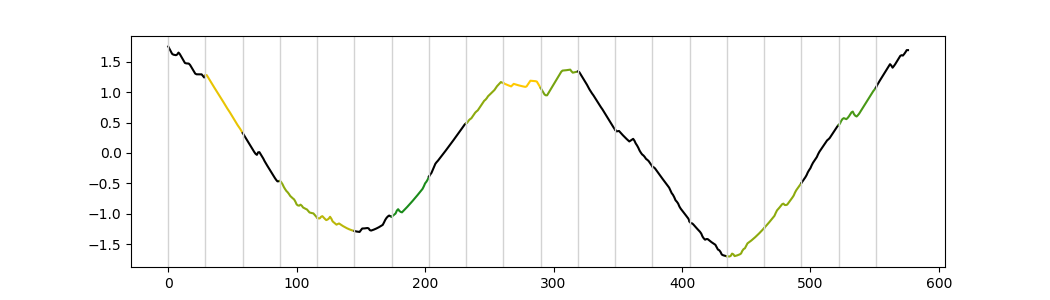
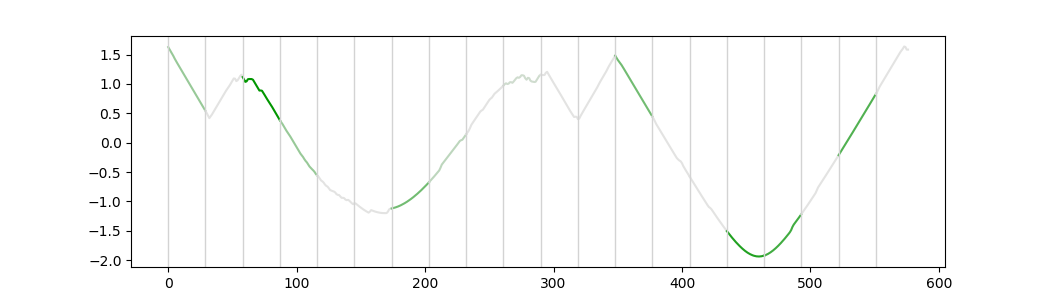
Add legend to the explanation plot

diff --git a/limeTS/SavedExplanations/Car/Car.html b/limeTS/SavedExplanations/Car/Car.html
@@ -3,15 +3,18 @@
         <html>
             <head>
                 <meta charset="utf-8">
-                <title>TSExplanation</title>
+                <title>Car</title>
                 <link rel="icon" type="image/x-icon" href="TSExplanation.ico">
             </head>
-            <body style="text-align: center;">
+            <body style="text-align: center; font-family: sans-serif;">
                 <br>
                 <img src="TSExplanation_long.png" alt="TSExplanation" width="600" /><br><br>
-                <p style="font-family: sans-serif;">Resultat : label</p>
-                <img src="Car.png" alt="Explication" /><br><br>
-                <p style="font-family: sans-serif;"> Poids : (6, 0.3001383047194293), (18, 0.2744093825804276), (9, 0.052655199889273835), (1, -0.06680533967307462), (4, -0.11794651060518188), (3, -0.17608139943817447), (8, -0.1789205168967938), (16, -0.18565944678950935), (15, -0.18741808296220588), (10, -0.21141235666843125)</p><br>
+                Resultat : 3<br><br><br>
+                <div style="vertical-align: middle; margin-bottom: 0;">
+                    Poids : &nbsp;&nbsp;<img style="vertical-align: -200%" src="Legende.png" alt="Legende" />
+                </div>
+                <img src="Car.png" alt="Explication" /><br><br><br>
+                 Poids : (6, 0.036049456324825355), (0, 0.030619614207320962), (3, 0.030180897597526287), (7, 0.023272383294236653), (9, 0.017696175091488707), (12, -0.038311663659369964), (18, -0.04615778971877194), (16, -0.05166461089914891), (15, -0.06528529596928082), (2, -0.07665725391215168)<br><br>
             </body>
         </html>
         

diff --git a/GUI/MainWindow.py b/GUI/MainWindow.py
@@ -6,7 +6,6 @@ from PyQt5.QtWidgets import QApplication, QWidget, QFileDialog, QVBoxLayout, QSi
 from PyQt5.QtGui import QIcon, QPixmap
 from PyQt5.QtCore import Qt
 from matplotlib.backends.backend_qt5agg import FigureCanvasQTAgg as FigureCanvas
-#from matplotlib.backends.backend_qt5agg import NavigationToolbar2QT as NavigationToolbar
 import numpy as np
 import matplotlib.pyplot as plt
 import csv
@@ -294,7 +293,7 @@ class App(QWidget):
         self.formLayout_LIME.setWidget(6, QtWidgets.QFormLayout.LabelRole, self.lbl_LIME_RempSS)        
         self.cb_LIME_RempSS = QtWidgets.QComboBox(self.tab_LIME)
         self.cb_LIME_RempSS.addItem("")
-        self.cb_LIME_RempSS.setItemText(0, "Segments nuls") # Voir les autres possibilités
+        self.cb_LIME_RempSS.setItemText(0, "Segments nuls")
         self.formLayout_LIME.setWidget(6, QtWidgets.QFormLayout.FieldRole, self.cb_LIME_RempSS)
 
         self.lbl_LIME_Distance = QtWidgets.QLabel(self.tab_LIME)
@@ -365,7 +364,6 @@ class App(QWidget):
         l = App.X_train[self.txt_TS_Index.value() - 1].ravel().tolist()
         self.figure_TS.clear()
         ax = self.figure_TS.add_subplot(111)
-        #ax.plot(l, linestyle='-', marker='.', markerfacecolor='#E20047', markeredgecolor='#E20047', markersize=2)
         ax.plot(l, linestyle='-')
         self.canvas_TS.draw_idle()
 
@@ -445,25 +443,23 @@ class App(QWidget):
 
 
     # Action of the button 'Executer' of the LIME tab
-    def execLIME(self): # Show explanation
-        #App.explanation = "..."
+    def execLIME(self):
         cltype = App.fileNameCl[len(App.fileNameCl)-8:]
         print(cltype)
         if cltype == "_1NN.sav":
             cl = LearningClassifier.loadClassifieur1NN(App.fileNameCl)
         else:
             cl = LearningClassifier.loadClassifieurLS(App.fileNameCl)
-
-        index = self.txt_LIME_Index.value();
-        myTs = App.X_test[index].ravel();
-        num_cuts =  self.txt_LIME_Segm.value();
-        num_features = self.txt_LIME_NbAttributes.value();
-        num_samples = self.txt_LIME_Voisins.value();
+        index = self.txt_LIME_Index.value()
+        myTs = App.X_test[index].ravel()
+        num_cuts =  self.txt_LIME_Segm.value()
+        num_features = self.txt_LIME_NbAttributes.value()
+        num_samples = self.txt_LIME_Voisins.value()
         myTSexp = lime_timeseries.TSExplainer()
         exp = myTSexp.explain_instance(myTs,cl,App.X_test, num_cuts, num_features, num_samples)
         print(exp.local_pred)
         self.UIexplanation = ExplanationWindow.UI_Explanation()
-        self.UIexplanation.showUI(exp, str(cl.predict(myTs.reshape(1, -1))[0]), myTs, num_cuts)# + result (classifier.predict(myTS))
+        self.UIexplanation.showUI(exp, str(cl.predict(myTs.reshape(1, -1))[0]), myTs, num_cuts)
     
 
     # Binding between the size of the tab widget and the size of the window

diff --git a/GUI/ExplanationWindow.py b/GUI/ExplanationWindow.py
@@ -2,6 +2,7 @@ import sys
 from PyQt5 import QtWidgets, QtCore, QtGui
 from PyQt5.QtWidgets import QDialog, QApplication, QPushButton, QVBoxLayout, QWidget, QFileDialog, QScrollArea
 from PyQt5.QtCore import Qt
+from PyQt5.QtGui import QPixmap
 from matplotlib.backends.backend_qt5agg import FigureCanvasQTAgg as FigureCanvas
 import matplotlib.pyplot as plt
 
@@ -15,10 +16,18 @@ class UI_Explanation(QWidget):
     def __init__(self):
         super().__init__()
         self.setWindowTitle('Explanation')
-        self.setGeometry(400, 200, 500, 400) 
+        self.setGeometry(375, 200, 550, 450) 
         self.setStyleSheet(open("style.qss", "r").read())
         self.setWindowIcon(QtGui.QIcon("icons/TSExplanation.ico"))
         self.lbl_class = QtWidgets.QLabel("")
+        self.lbl_class.setAlignment(Qt.AlignCenter)
+        self.horizontalLayout = QtWidgets.QHBoxLayout()
+        self.lbl_legende = QtWidgets.QLabel("Poids :   ")
+        self.img_legende = QtWidgets.QLabel()
+        self.img_legende.setPixmap(QPixmap("icons/Legende_GUI.png"))
+        self.horizontalLayout.addWidget(self.lbl_legende)
+        self.horizontalLayout.addWidget(self.img_legende)
+        self.horizontalLayout.setAlignment(Qt.AlignCenter)
         self.figure = plt.figure()
         self.canvas = FigureCanvas(self.figure)
         self.lbl_weights = QtWidgets.QLabel("")
@@ -43,6 +52,7 @@ class UI_Explanation(QWidget):
     def plot(self):
         layout = QVBoxLayout()
         layout.addWidget(self.lbl_class)
+        layout.addLayout(self.horizontalLayout)
         layout.addWidget(self.canvas)
         layout.addWidget(self.scroll)
         layout.addWidget(self.btn_save)
@@ -60,7 +70,7 @@ class UI_Explanation(QWidget):
         UI_Explanation.ts = myTs
         UI_Explanation.num_cuts = num_cuts
         self.canvas, _ = exp.domain_mapper.as_pyplot(exp, myTs, num_cuts)
-        self.lbl_class.setText("Résultat : " + result_class)
+        self.lbl_class.setText("Résultat : " + result_class + "\n\n")
         self.plot()
         self.show()
 

diff --git a/limeTS/lime_timeseries.py b/limeTS/lime_timeseries.py
@@ -77,6 +77,7 @@ class TSDomainMapper(explanation.DomainMapper):
         os.makedirs(file_path, exist_ok=True)
         shutil.copy2("../GUI/icons/TSExplanation.ico", file_path + "/TSExplanation.ico")
         shutil.copy2("../GUI/icons/TSExplanation_long.png", file_path + "/TSExplanation_long.png")
+        shutil.copy2("../GUI/icons/Legende.png", file_path + "/Legende.png")
         _, figure = exp.domain_mapper.as_pyplot(exp, myTs, num_cuts)
         size = figure.get_size_inches()
         figure.set_size_inches(10.5, 3.0)
@@ -93,12 +94,15 @@ class TSDomainMapper(explanation.DomainMapper):
                 <title>''' + name + '''</title>
                 <link rel="icon" type="image/x-icon" href="TSExplanation.ico">
             </head>
-            <body style="text-align: center;">
+            <body style="text-align: center; font-family: sans-serif;">
                 <br>
                 <img src="TSExplanation_long.png" alt="TSExplanation" width="600" /><br><br>
-                <p style="font-family: sans-serif;">''' + res +'''</p>
-                <img src="''' + name + '''.png" alt="Explication" /><br><br>
-                <p style="font-family: sans-serif;">''' + weights +'''</p><br>
+                ''' + res +'''<br><br><br>
+                <div style="vertical-align: middle; margin-bottom: 0;">
+                    Poids : &nbsp;&nbsp;<img style="vertical-align: -200%" src="Legende.png" alt="Legende" />
+                </div>
+                <img src="''' + name + '''.png" alt="Explication" /><br><br><br>
+                ''' + weights +'''<br><br>
             </body>
         </html>
         ''')
